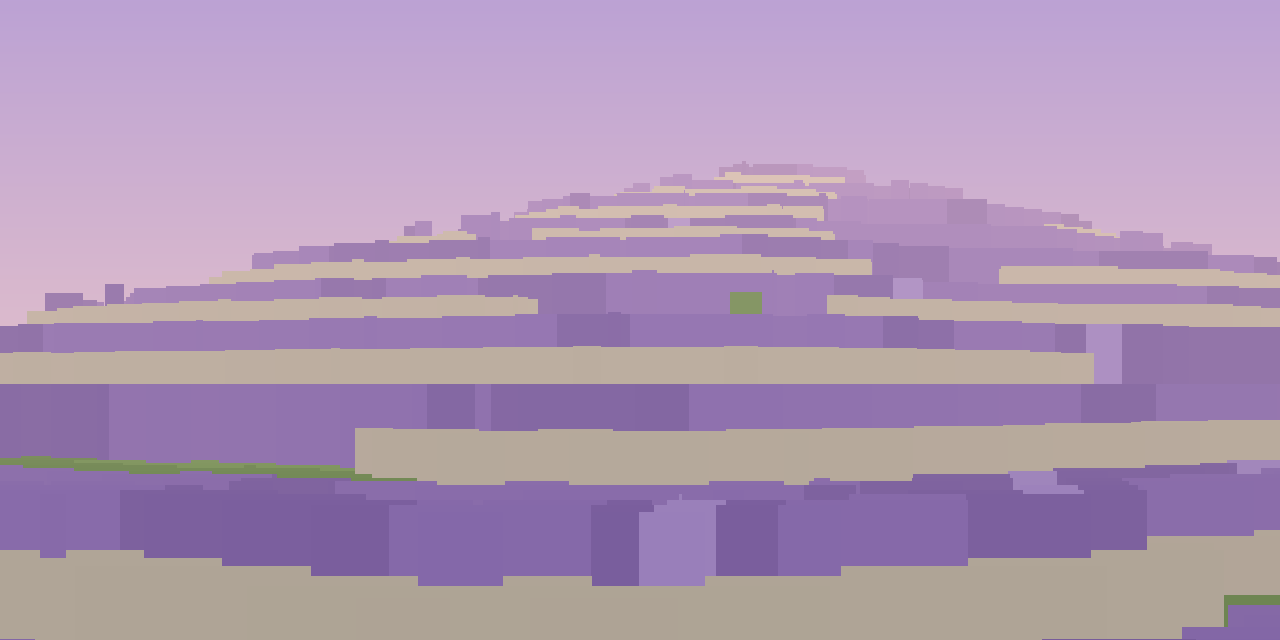
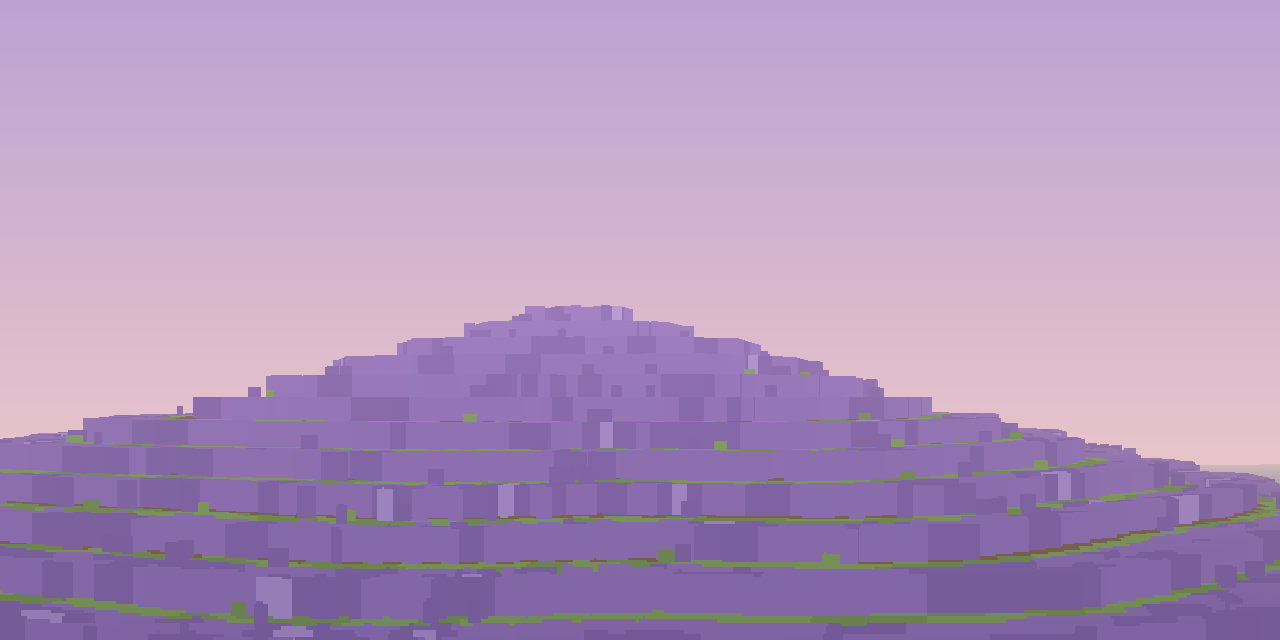
рев15.2 [release v0.15.0]: вытянутый луг, кадры с земли, проба /riftdt без ошибки namespace, DT в CI локальным jar-ом, лог клиента в репозиторий, релиз с обоими jar

diff --git a/tools/rift/sim_violet.py b/tools/rift/sim_violet.py
@@ -64,6 +64,7 @@ class Island:
     def __init__(self, cx, cz, R, base, depth, p1, p2, p3, kind=7, hill=0.9):
         self.cx, self.cz, self.R, self.base, self.depth = cx, cz, R, base, depth
         self.p1, self.p2, self.p3, self.kind, self.hill = p1, p2, p3, kind, hill
+        self.elong, self.elongAng = 0.0, 0.0
 
     def shapeR(self, th):
         return self.R * (1 + 0.07 * np.sin(3 * th + self.p1) + 0.045 * np.sin(5 * th + self.p2)
@@ -71,40 +72,46 @@ class Island:
 
     def t(self, x, z):
         dx, dz = x - self.cx, z - self.cz
-        return 1 - np.hypot(dx, dz) / self.shapeR(np.arctan2(dz, dx))
+        if self.elong == 0.0:
+            return 1 - np.hypot(dx, dz) / self.shapeR(np.arctan2(dz, dx))
+        ca, sa = np.cos(self.elongAng), np.sin(self.elongAng)
+        u = (dx * ca + dz * sa) / (1 + self.elong)
+        v = (-dx * sa + dz * ca) * (1 + self.elong)
+        return 1 - np.hypot(u, v) / self.shapeR(np.arctan2(v, u))
 
 
 OCEAN = 62
 
 # ---------------------------------------------------------------- ПАРАМЕТРЫ ДИЗАЙНА (крутить здесь)
 P = {
-    "R": 104.0,            # радиус луга
-    "rise": 30.0,          # высота холма над морем
-    "dome_pow": 1.15,      # насколько плоская вершина
-    "wave1": 5.0,          # крупные волны рельефа
-    "wave1_f": 0.0062,
-    "wave2": 1.8,
-    "wave2_f": 0.021,
-    "step": 2,             # высота яруса террасы
-    "row_h": 1.35,          # шаг грядки лаванды В ВЫСОТЕ (гряды идут по контуру)
-    "row_cover": 0.74,     # доля грядки с лавандой (остальное — трава между грядами)
-    "field_f": 0.0075,     # масштаб пятен полей
-    "field_thr": 0.42,     # порог «здесь поле», иначе пастбище
-    "field_cover": 0.72,   # внутри поля доля «лаванда», остальное — борозды/трава
-    "edge_grass": 2,       # блоков травы от кромки яруса до первой гряды
+    "R": 100.0,            # радиус луга (Java: 92..112)
+    "rise": 30.0,          # высота холма над морем (Java: base = ocean+26..34)
+    "dome_pow": 1.02,
+    "wave1": 6.2,          # крупные волны рельефа
+    "wave1_f": 0.0060,
+    "wave2": 2.4,
+    "wave2_f": 0.0165,
+    "wave3": 0.8,
+    "wave3_f": 0.047,
+    "step": 2,             # высота яруса террасы (VIOLET_STEP)
+    "row_h": 1.15,         # одна гряда на 1.15 блока подъёма (полосы по контуру)
+    "row_cover": 0.70,
+    "field_f": 0.0068,     # масштаб пятен полей
+    "field_thr": 0.34,
+    "edge_grass": 2,       # ширина травяной кромки яруса
 }
 
 
 def terrain(x, z, isl, p=P):
-    """Возвращает (top, soft, kind) — top квантованный (ярус), soft — гладкая высота."""
+    """Возвращает (top, soft, t) — ровно как ElisarChunkGenerator.violetProfile + violetTerrace."""
     t = np.clip(isl.t(x, z), 0.0, 1.0)
-    rim = OCEAN + 2.0
+    rim = OCEAN + 2.5
     dome = rim + (isl.base - rim) * np.power(t, p["dome_pow"])
     dome += p["wave1"] * (vnoise(x * p["wave1_f"], z * p["wave1_f"], 71) - 0.5) * np.sqrt(t)
     dome += p["wave2"] * (vnoise(x * p["wave2_f"], z * p["wave2_f"], 72) - 0.5) * t
-    soft = dome
+    dome += p["wave3"] * (vnoise(x * p["wave3_f"], z * p["wave3_f"], 73) - 0.5) * t
     top = np.floor(dome / p["step"]) * p["step"] + 2.0
-    return top, soft, t
+    return top, dome, t
 
 
 # ---------------------------------------------------------------- карта блока для колонки
@@ -134,41 +141,40 @@ def rim_mask(top, step, width=3):
 
 
 def surface_color(x, z, top, soft, t, isl, p=P):
-    """Цвет верха колонки + высота доп. блоков (лаванда 2 блока)."""
-    h = np.zeros(x.shape, dtype=np.float64)      # 0 — только верх, 1..2 — сколько блоков сверху
+    """Цвет верха колонки + высота доп. блоков (лаванда 2 блока) — как в Java."""
+    h = np.zeros(x.shape, dtype=np.float64)
     col = np.zeros(x.shape + (3,), dtype=np.float64)
 
-    rim = rim_mask(top, p["step"], p["edge_grass"])
-    field = vnoise(x * p["field_f"], z * p["field_f"], 92) > p["field_thr"]
+    lip = rim_mask(top, p["step"], p["edge_grass"])
+    meadow = vnoise(x * p["field_f"], z * p["field_f"], 92) < p["field_thr"]
 
-    # гряды идут ПО КОНТУРУ яруса: индекс гряды — гладкая высота / row_h
-    rowpos = soft / p["row_h"]
-    frac = rowpos - np.floor(rowpos)
-    in_row = frac < p["row_cover"]
+    rp = soft / p["row_h"]
+    frac = rp - np.floor(rp)
+    row = frac < p["row_cover"]
 
-    # каменный бортик яруса (на фото серая кладка по кромке, не везде)
-    stone = rim & (vnoise(x * 0.11, z * 0.11, 88) > 0.42)
-    lav = field & in_row & (~rim)
-    grass = ~lav & ~stone
+    lav = (~lip) & (~meadow) & row
+    furrow = (~lip) & (~meadow) & (~row)
+    grass = ~lav & ~furrow
 
     col[grass] = np.array(COL["grass"])
+    col[furrow] = np.array(COL["soil"])
     col[lav] = np.array(COL["lav"])
-    col[stone] = np.array(COL["rock"])
     v2 = vnoise(x * 0.35, z * 0.35, 97)
     col[grass & (v2 > 0.55)] = np.array(COL["grass2"])
     col[lav & (v2 > 0.62)] = np.array(COL["lav2"])
-    col[lav & (v2 > 0.88)] = np.array(COL["lav_hi"])
-    # у самой кромки яруса всегда зелёная полоса травы (как на фото)
-    col[rim & ~stone] = np.array(COL["grass2"])
-
-    h[grass & (vnoise(x * 1.7, z * 1.7, 99) > 0.93)] = 1.0    # редкие цветы
-    h[lav] = 2.0                                              # лаванда — два блока в высоту
-    h[stone] = 1.0
+    col[lav & (v2 > 0.90)] = np.array(COL["lav_hi"])
+    # редкие пятна лаванды на пастбище
+    m_lav = grass & (vnoise(x * 0.9, z * 0.9, 96) > 0.86)
+    col[m_lav] = np.array(COL["lav2"])
+    h[m_lav] = 1.0
+    h[grass & (vnoise(x * 1.7, z * 1.7, 99) > 0.93)] = 0.6
+    h[lav] = 0.85          # в симуляторе лаванда — низкий ковёр (в игре это крестики-растения)
     return col, h, lav
 
 
 def build(cx, cz, size=340, p=P):
     isl = Island(cx, cz, p["R"], OCEAN + p["rise"], 20, 1.3, 4.1, 4.3, 7, 0.9)
+    isl.elong, isl.elongAng = 0.34, 0.6
     xs = np.arange(cx - size, cx + size, dtype=np.float64) + 0.5
     zs = np.arange(cz - size, cz + size, dtype=np.float64) + 0.5
     X, Z = np.meshgrid(xs, zs)
@@ -184,7 +190,7 @@ def build(cx, cz, size=340, p=P):
 
 
 def render_perspective(sc, path, cam=(0, 0, 0), yaw=0.0, pitch=-0.06, fov=1.05, W=1280, H=640,
-                       fog=0.0075, fogcol=(246, 206, 198)):
+                       fog=0.0022, fogcol=(238, 198, 196)):
     """Классический Voxel Space: идём по колонке от ближнего к дальнему и рисуем вертикальные
     отрезки, пока верх экрана не заполнен. Даёт правильное перекрытие холмов."""
     top = sc["top"] + sc["h"]
@@ -238,9 +244,23 @@ def render_top(sc, path, scale=2):
     return path
 
 
+def surface_at(sc, x, z):
+    ix = int(x - sc["X"][0, 0])
+    iz = int(z - sc["Z"][0, 0])
+    return float(sc["top"][iz, ix])
+
+
+def shot(sc, name, x, z, yaw_deg, eye=9.0, pitch=-0.12, W=1280, H=640):
+    y = surface_at(sc, x, z) + eye
+    return render_perspective(sc, os.path.join(OUT, name), cam=(x, y, z), yaw=math.radians(yaw_deg),
+                              pitch=pitch, W=W, H=H)
+
+
 if __name__ == "__main__":
     os.makedirs(OUT, exist_ok=True)
-    sc = build(0, 0)
+    sc = build(0, 0, size=300)
     render_top(sc, os.path.join(OUT, "top.png"))
-    render_perspective(sc, os.path.join(OUT, "persp.png"), cam=(-60, 96, 150), yaw=math.radians(255), pitch=-0.06)
+    shot(sc, "persp_slope.png", 70, 95, 250, eye=12)      # с пологого склона вверх, по грядам
+    shot(sc, "persp_close.png", 20, 55, 265, eye=6)       # вблизи, среди лаванды
+    shot(sc, "persp_ridge.png", -85, -40, 40, eye=14)     # с гребня вниз через поля
     print("OK")

diff --git a/mod/src/main/java/ru/aiforge/riftworld/world/CityPlan.java b/mod/src/main/java/ru/aiforge/riftworld/world/CityPlan.java
@@ -52,6 +52,13 @@ public final class CityPlan {
         /** 0 = city island, 1 large, 2 medium, 3 small, 4 bowl islet (wild islands of the main biome). */
         public int kind;
         public double hill = 1.0;
+        /**
+         * Рев 15: вытянутость острова (эллипс). У Фиолетовых холмов луг должен быть ДЛИННЫМ,
+         * как на референсе 04: тогда террасы-изолинии идут длинными лентами через склон, а не
+         * концентрическими кольцами «свадебного торта». 0 — круглый остров, 0.5 — эллипс 3:2.
+         */
+        public double elong = 0.0;
+        public double elongAng = 0.0;
 
         public Island(double cx, double cz, double R, double base, double depth, double p1, double p2, double p3, int kind, double hill) {
             this.cx = cx; this.cz = cz; this.R = R; this.base = base; this.depth = depth;
@@ -69,9 +76,19 @@ public final class CityPlan {
             return R * (1 + 0.07 * Math.sin(3 * th + p1) + 0.045 * Math.sin(5 * th + p2) + 0.025 * Math.sin(11 * th + p3));
         }
 
+        /**
+         * «Глубина» точки внутри острова: 1 в центре, 0 на кромке, &lt;0 снаружи.
+         *
+         * <p>Рев 15: при {@code elong > 0} остров — ЭЛЛИПС (площадь сохраняется): растяжение
+         * считается в нормированных координатах, поэтому поля идут лентами вдоль длинной оси.
+         */
         public double t(double x, double z) {
             double dx = x - cx, dz = z - cz;
-            return 1 - Math.hypot(dx, dz) / shapeR(Math.atan2(dz, dx));
+            if (elong == 0.0) return 1 - Math.hypot(dx, dz) / shapeR(Math.atan2(dz, dx));
+            double ca = Math.cos(elongAng), sa = Math.sin(elongAng);
+            double u = (dx * ca + dz * sa) / (1 + elong);
+            double v = (-dx * sa + dz * ca) * (1 + elong);
+            return 1 - Math.hypot(u, v) / shapeR(Math.atan2(v, u));
         }
 
         public double raw(double x, double z) {

diff --git a/mod/src/main/java/ru/aiforge/riftworld/world/SeaProbeCommand.java b/mod/src/main/java/ru/aiforge/riftworld/world/SeaProbeCommand.java
@@ -833,9 +833,23 @@ public final class SeaProbeCommand {
         String handler = "absent", herr = "";
         try {
             Class<?> cls = Class.forName("com.ferreusveritas.dynamictrees.api.registry.RegistryHandler");
-            // NB: static get() у DT только со String, и внутри он делает ResourceLocation.tryParse —
-            // поэтому "riftworlddt" превратился бы в minecraft:riftworlddt. Передаём полное имя.
-            Object h = cls.getMethod("get", String.class).invoke(null, "riftworlddt:riftworlddt");
+            // Рев 15.2: DT-шный get(String) сам добавляет namespace — передаём ТОЛЬКО modid.
+            // (Раньше сюда шло "riftworlddt:riftworlddt", DT клеил ещё namespace, и проба падала
+            //  с ResourceLocationException "riftworlddt:riftworlddt:riftworlddt", из-за чего в отчётах
+            //  стояло handler=error и казалось, что хендлер не встал. Блоки при этом регистрировались.)
+            Object h = null;
+            try {
+                h = cls.getMethod("get", String.class).invoke(null, "riftworlddt");
+            } catch (java.lang.reflect.InvocationTargetException ite) {
+                if (!(ite.getCause() instanceof net.minecraft.ResourceLocationException)) throw ite;
+            }
+            if (h == null) {
+                // запасной путь: ищем хендлер среди зарегистрированных по имени riftworlddt
+                Object reg = cls.getField("REGISTRY").get(null);
+                h = reg.getClass().getMethod("get", net.minecraft.resources.ResourceLocation.class)
+                        .invoke(reg, new net.minecraft.resources.ResourceLocation("dynamictrees", "riftworlddt"));
+            }
+            if (h == null) throw new NoSuchMethodException("RegistryHandler для riftworlddt не найден");
             handler = (Boolean) h.getClass().getMethod("isValid").invoke(h) ? "valid" : "invalid";
         } catch (ClassNotFoundException e) {
             handler = "no-dt";

diff --git a/mod/src/main/java/ru/aiforge/riftworld/world/VioletHills.java b/mod/src/main/java/ru/aiforge/riftworld/world/VioletHills.java
@@ -82,6 +82,10 @@ public final class VioletHills {
             double base = CityPlan.get().ocean + 26 + rnd.nextInt(9);
             this.meadow = new CityPlan.Island(cx, cz, R, base, R * 0.6 + 12, rnd.nextDouble() * 6.283, rnd.nextDouble() * 6.283,
                     rnd.nextDouble() * 6.283, 7, 0.9);
+            // Рев 15: луг ВЫТЯНУТЫЙ (см. Island.elong) — террасы идут длинными лентами через склон,
+            // как поля на референсе 04, а не кольцами вокруг вершины.
+            this.meadow.elong = 0.22 + rnd.nextDouble() * 0.22;
+            this.meadow.elongAng = rnd.nextDouble() * Math.PI;
             // the two churches face the meadow centre from opposite sides
             double th = rnd.nextDouble() * Math.PI * 2, jj = (rnd.nextDouble() - 0.5) * 0.7;
             double rr = R * 0.52;

diff --git a/mod/src/main/java/ru/aiforge/riftworld/world/ElisarChunkGenerator.java b/mod/src/main/java/ru/aiforge/riftworld/world/ElisarChunkGenerator.java
@@ -592,6 +592,7 @@ public class ElisarChunkGenerator extends ChunkGenerator {
         if (d > hw + 1.6) return;
         int shelf = c.top;
         int L = shelf - 1;                                   // вода на блок ниже полки
+        if (L <= plan.ocean + 1) return;                     // на самой нижней полке ручья нет — иначе вода ниже моря
         if (d > hw) {                                        // берег: не даём воде «висеть»
             if (c.top < L + 1) { c.top = L + 1; c.bottom = Math.min(c.bottom, c.top - 3); }
             return;
